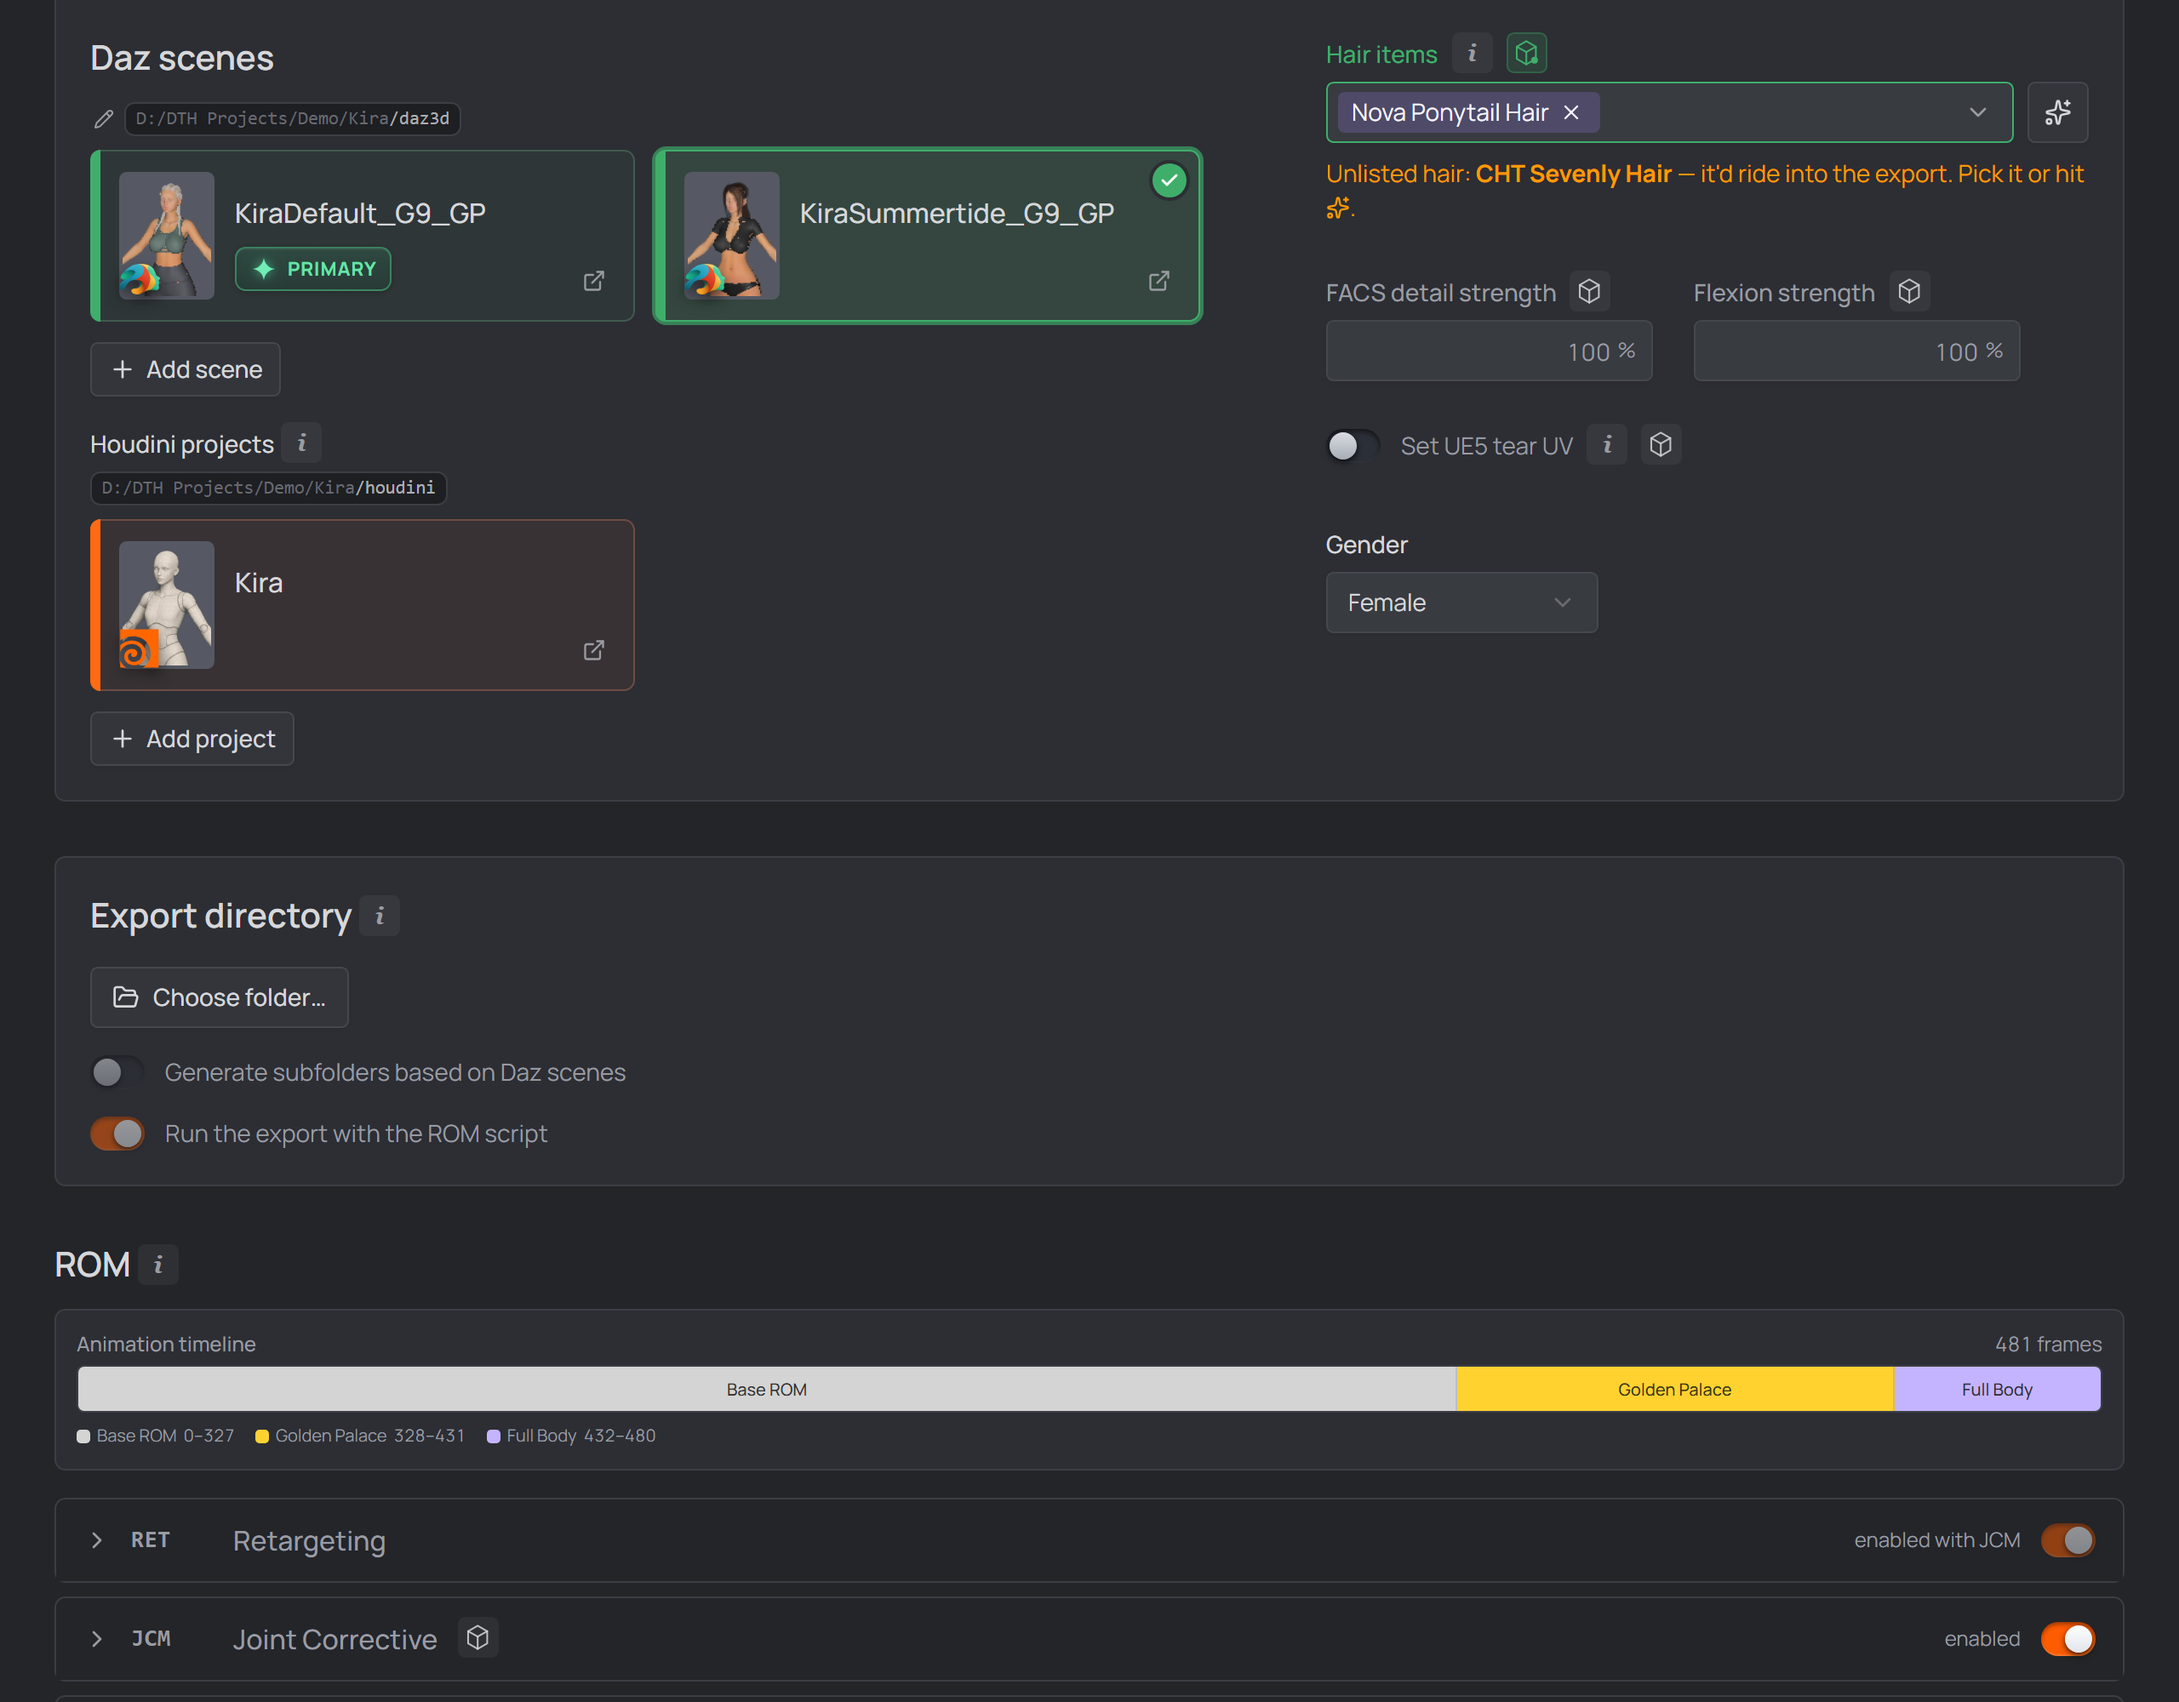
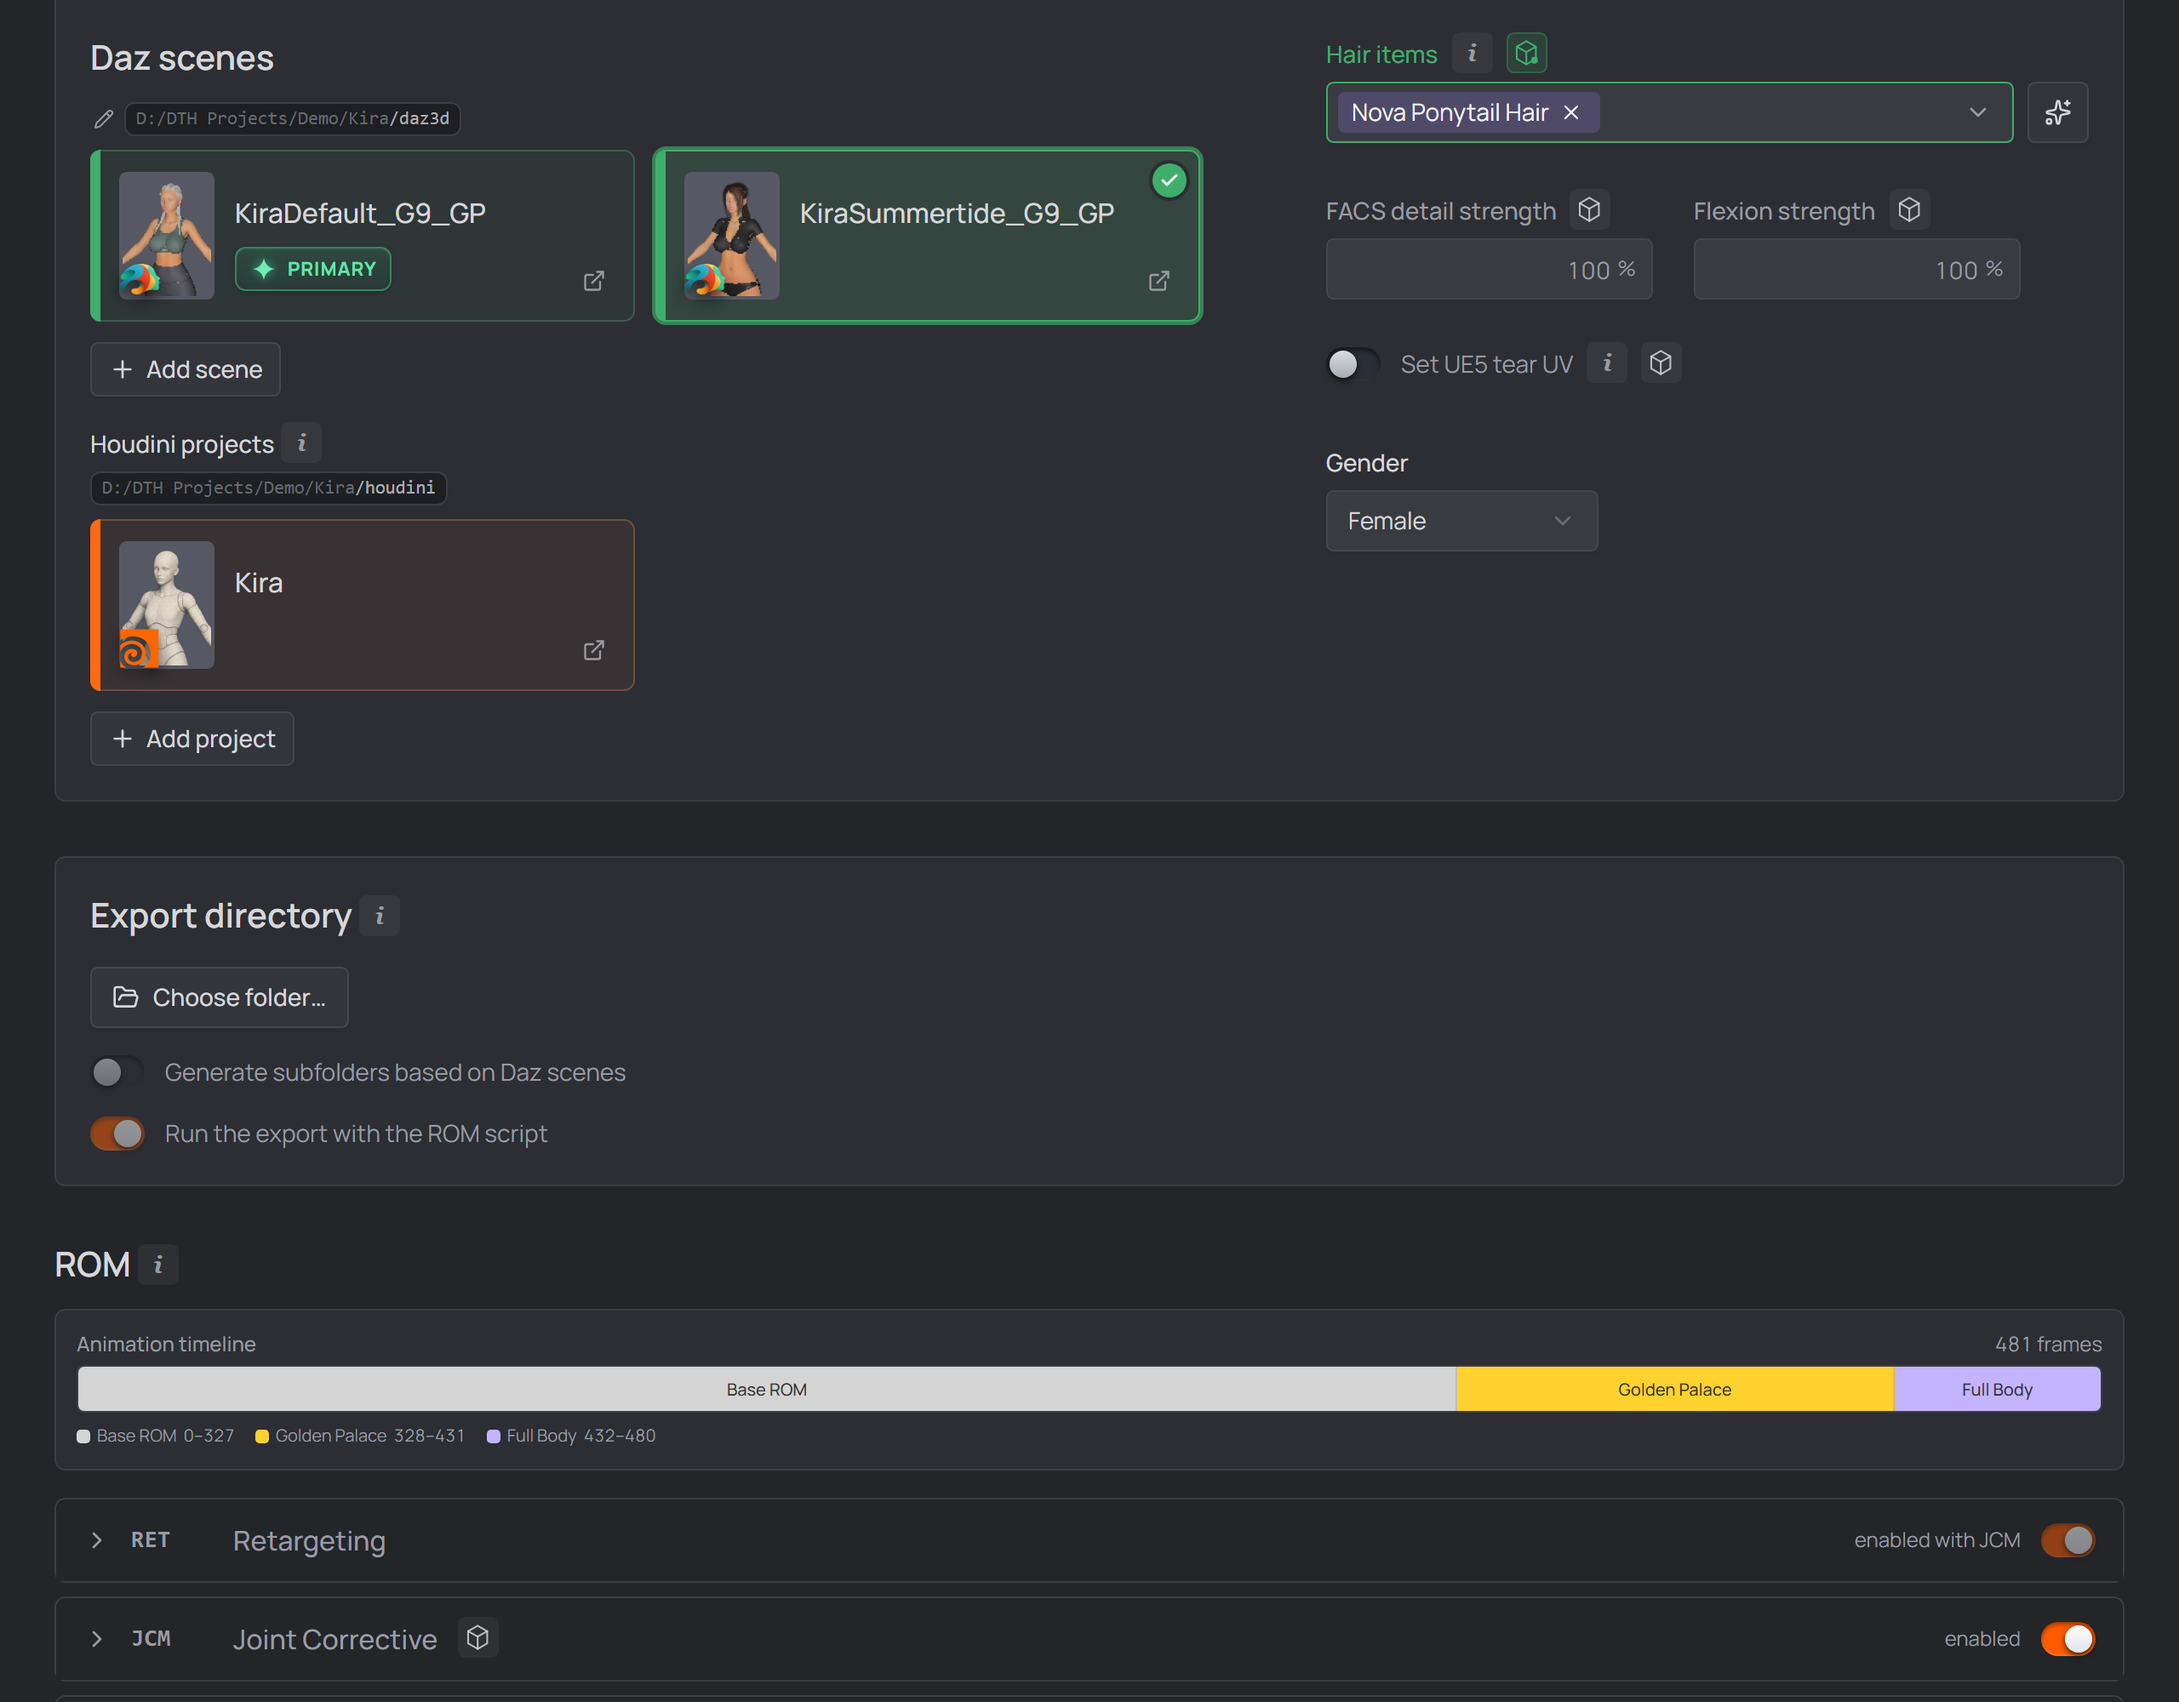
fix(smoke): per-scene wearables so guide shots never show the unlisted-hair warning
The mock served ONE flat wearables list for every scene, so in multi-scene
states each scene "carried" the other's hair and the amber unlisted-hair
warning appeared deterministically (not a timing issue — it was the fixture's
steady state, and no guide page documents that warning). scene_wearables now
answers per scene path, each scene reporting its own hair item.

Claude-Session: https://claude.ai/code/session_01HnwYCJp6ZXnKEazs2CTt1D

Changed region(s): [[0.5938, 0.093, 0.9375, 0.217], [0.5938, 0.248, 0.7188, 0.372]]

diff --git a/apps/web/smoke/tauri-mock.ts b/apps/web/smoke/tauri-mock.ts
@@ -34,9 +34,12 @@ export interface TauriMockSeed {
   /** Files `probe_locked_files` reports as locked (open in Daz/Houdini) — drives
    *  the "close those apps" move dialog. Default: nothing locked. */
   lockedFiles?: Array<string>
-  /** Conformed items a scene's `.duf` reports (`scene_wearables`) — the groom
-   *  picker's suggestions; a listed hair item resolves against these. */
-  sceneWearables?: Array<{ id: string; label: string; conformTarget: string }>
+  /** Conformed items a scene's `.duf` reports (`scene_wearables`), PER scene
+   *  path — the groom picker's suggestions; a listed hair item resolves against
+   *  its own scene's entry. Per-scene on purpose: a flat list served for every
+   *  scene made each scene "carry" the other's hair, tripping the unlisted-hair
+   *  warning in every multi-scene state. */
+  sceneWearables?: Record<string, Array<{ id: string; label: string; conformTarget: string }>>
   /** The base figure node a scene reports (`scene_wearables`) — the create
    *  dialog's Genesis/gender auto-select source. Default: null (none found). */
   sceneFigure?: { id: string; label: string } | null
@@ -272,10 +275,15 @@ export function installTauriMock(seed: TauriMockSeed): void {
             : { path, frames, error: '' }
         })
       case 'scene_wearables':
-        // Groom suggestions: the seeded wearables (so a listed hair item resolves
-        // instead of flashing "not found"), else empty. `figure` feeds the create
+        // Groom suggestions: THIS scene's seeded wearables (so a listed hair item
+        // resolves instead of flashing "not found" — and another scene's hair
+        // never leaks in as "unlisted"), else empty. `figure` feeds the create
         // dialog's Genesis auto-select. Best-effort — never errors.
-        return { items: seed.sceneWearables ?? [], figure: seed.sceneFigure ?? null, error: '' }
+        return {
+          items: seed.sceneWearables?.[norm(args.path)] ?? [],
+          figure: seed.sceneFigure ?? null,
+          error: '',
+        }
       case 'housekeeping_sweep':
         return { filesDeleted: 0, bytesFreed: 0 }
       case 'unc_for_path':

diff --git a/apps/web/smoke/fixtures.ts b/apps/web/smoke/fixtures.ts
@@ -345,14 +345,20 @@ export function buildSeed(opts: SeedOptions = {}): TauriMockSeed {
   return {
     files,
     dialogPath: opts.dialogPath,
-    // The demo scene reports its hair item as a wearable so the groom pill resolves.
+    // Each scene reports ITS OWN hair item as a wearable, so every scene's groom
+    // pill resolves and no scene sees the other's hair as "unlisted" (the amber
+    // warning must never appear in guide shots — it's not a documented state).
     sceneWearables: opts.demo
-      ? [
-          { id: 'cht-sevenly-hair', label: HAIR_ITEM, conformTarget: '#Genesis9' },
+      ? {
+          [P.scene]: [{ id: 'cht-sevenly-hair', label: HAIR_ITEM, conformTarget: '#Genesis9' }],
           ...(opts.extraScene
-            ? [{ id: 'nova-ponytail-hair', label: HAIR_ITEM_2, conformTarget: '#Genesis9' }]
-            : []),
-        ]
+            ? {
+                [P.scene2]: [
+                  { id: 'nova-ponytail-hair', label: HAIR_ITEM_2, conformTarget: '#Genesis9' },
+                ],
+              }
+            : {}),
+        }
       : undefined,
     // …and its base figure, so the create dialog auto-selects G9 from the scene.
     sceneFigure: opts.demo ? { id: 'Genesis9', label: 'Genesis 9' } : null,
